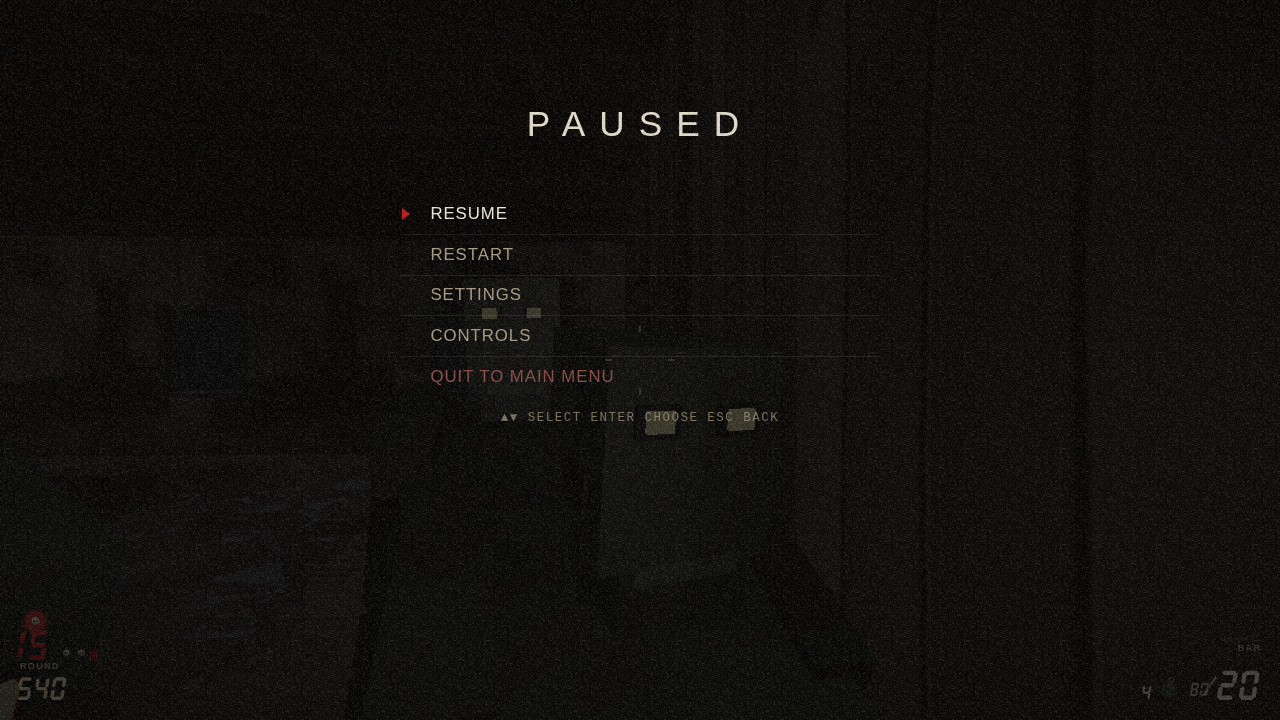
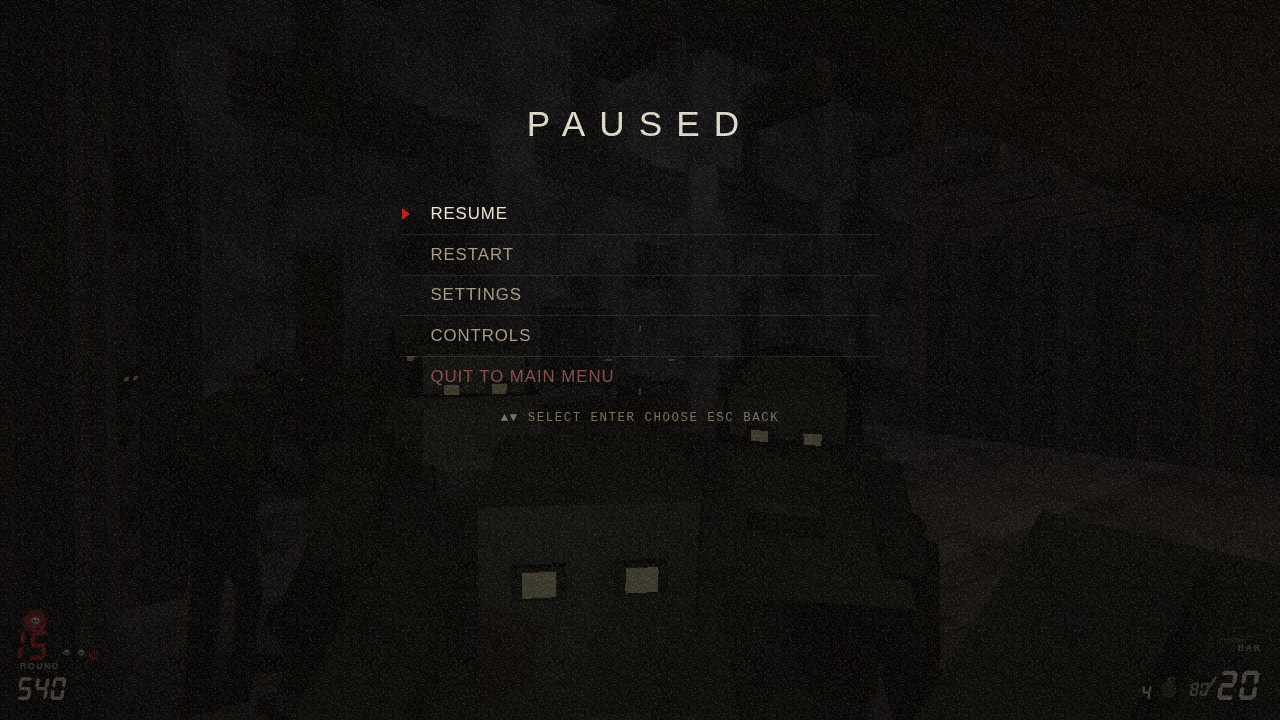
fix: the main menu was hiding the level it was already rendering
The renderer drifts a camera slowly through the farmhouse behind the main
menu — that code was there and working — and the menu screen painted an
opaque background straight over it. You sat looking at a black void with
text on it, which is why an earlier review called the menu atmospheric but
empty. It is now scrimmed rather than filled: heavy enough at the edges
for the title and rows to stay legible, thin enough through the middle
that the cracked plaster, the boarded window and the drifting embers read.

Settings, controls and the stats screens stay opaque — those are read, not
admired, and long option lists should not fight a moving image.

Lightening the scrim exposed a second bug behind it: the HUD had no early
return for menu or loading modes, so it drew the previous run's points,
ammo, grenade count and weapon name over the main menu. It had always done
this; the old opaque background simply hid it.

Story: EPIC-VIS-S10

Claude-Session: https://claude.ai/code/session_01P2JyCRkCoPS6Ms7N71LdqN

diff --git a/nacht_der_untoten.html b/nacht_der_untoten.html
@@ -15191,7 +15191,7 @@ Z.assert = function (cond, msg) {
 }());
 
 
-/* ============================ 20_hud.js (1214 lines) ============================ */
+/* ============================ 20_hud.js (1222 lines) ============================ */
 // ---------------------------------------------------------------------------
 // 20_hud.js — Z.HUD. Draws the in-game HUD to the 2D `#hud` canvas.
 //
@@ -15759,6 +15759,14 @@ Z.assert = function (cond, msg) {
     ctx.clearRect(0, 0, W, Hh);
 
     const mode = state.mode || 'playing';
+
+    // Nothing of the run belongs on screen before it starts. The menu draws
+    // over a live render of the level, and without this the previous run's
+    // points, ammo and round counter sat on top of the main menu.
+    if (mode === 'menu' || mode === 'loading') {
+      ctx.restore();
+      return;
+    }
 
     if (mode === 'gameover') {
       drawGameOver(state, dt);
@@ -16407,7 +16415,7 @@ Z.assert = function (cond, msg) {
 }());
 
 
-/* ============================ 21_menu.js (1055 lines) ============================ */
+/* ============================ 21_menu.js (1065 lines) ============================ */
 // ---------------------------------------------------------------------------
 // 21_menu.js — Z.Menu. DOM-based front-end: main menu, pause, settings,
 // controls (key rebinding), game-over, loading.
@@ -16616,7 +16624,17 @@ Z.assert = function (cond, msg) {
     '.wa-menu__screen{ position:absolute; inset:0; display:none; flex-direction:column; }\n' +
     '.wa-menu__screen.is-active{ display:flex; }\n' +
     '.wa-menu__screen--pause{ background:rgba(4,3,2,0.74); }\n' +
-    '.wa-menu__screen--main,.wa-menu__screen--settings,.wa-menu__screen--controls,\n' +
+    // The renderer already drifts a camera slowly through the farmhouse behind
+    // the main menu, and an opaque background threw all of it away — you sat
+    // looking at a black void with text on it. Scrim it instead: heavy enough
+    // at the top for the title and rows to stay legible, thin enough at the
+    // bottom that the room, the boarded windows and the failing bulbs read.
+    '.wa-menu__screen--main{ background:\n' +
+    '  radial-gradient(125% 90% at 50% 32%, rgba(6,4,2,0.10) 0%, rgba(6,4,2,0.48) 60%, rgba(6,4,2,0.78) 100%),\n' +
+    '  linear-gradient(to bottom, rgba(6,4,2,0.50) 0%, rgba(6,4,2,0.16) 46%, rgba(6,4,2,0.30) 100%); }\n' +
+    // Settings, controls and the stats screens are read, not admired — they
+    // stay opaque so long option lists never fight the moving image behind.
+    '.wa-menu__screen--settings,.wa-menu__screen--controls,\n' +
     '.wa-menu__screen--gameover,.wa-menu__screen--loading{ background:' + COL.bg + '; }\n' +
 
     // grain overlay — generated noise tile, animated by stepping the offset.

diff --git a/src/game/21_menu.js b/src/game/21_menu.js
@@ -206,7 +206,17 @@
     '.wa-menu__screen{ position:absolute; inset:0; display:none; flex-direction:column; }\n' +
     '.wa-menu__screen.is-active{ display:flex; }\n' +
     '.wa-menu__screen--pause{ background:rgba(4,3,2,0.74); }\n' +
-    '.wa-menu__screen--main,.wa-menu__screen--settings,.wa-menu__screen--controls,\n' +
+    // The renderer already drifts a camera slowly through the farmhouse behind
+    // the main menu, and an opaque background threw all of it away — you sat
+    // looking at a black void with text on it. Scrim it instead: heavy enough
+    // at the top for the title and rows to stay legible, thin enough at the
+    // bottom that the room, the boarded windows and the failing bulbs read.
+    '.wa-menu__screen--main{ background:\n' +
+    '  radial-gradient(125% 90% at 50% 32%, rgba(6,4,2,0.10) 0%, rgba(6,4,2,0.48) 60%, rgba(6,4,2,0.78) 100%),\n' +
+    '  linear-gradient(to bottom, rgba(6,4,2,0.50) 0%, rgba(6,4,2,0.16) 46%, rgba(6,4,2,0.30) 100%); }\n' +
+    // Settings, controls and the stats screens are read, not admired — they
+    // stay opaque so long option lists never fight the moving image behind.
+    '.wa-menu__screen--settings,.wa-menu__screen--controls,\n' +
     '.wa-menu__screen--gameover,.wa-menu__screen--loading{ background:' + COL.bg + '; }\n' +
 
     // grain overlay — generated noise tile, animated by stepping the offset.

diff --git a/src/game/20_hud.js b/src/game/20_hud.js
@@ -566,6 +566,14 @@
 
     const mode = state.mode || 'playing';
 
+    // Nothing of the run belongs on screen before it starts. The menu draws
+    // over a live render of the level, and without this the previous run's
+    // points, ammo and round counter sat on top of the main menu.
+    if (mode === 'menu' || mode === 'loading') {
+      ctx.restore();
+      return;
+    }
+
     if (mode === 'gameover') {
       drawGameOver(state, dt);
       ctx.restore();
